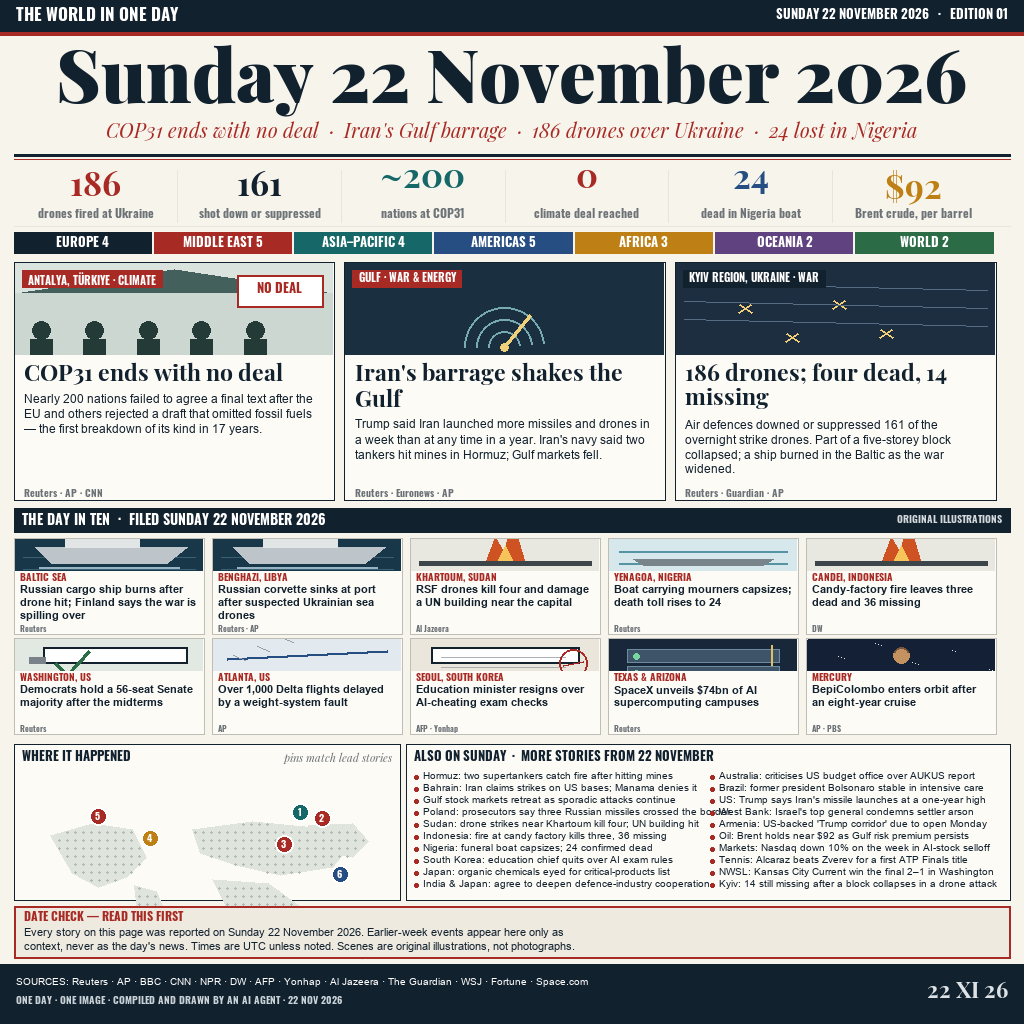
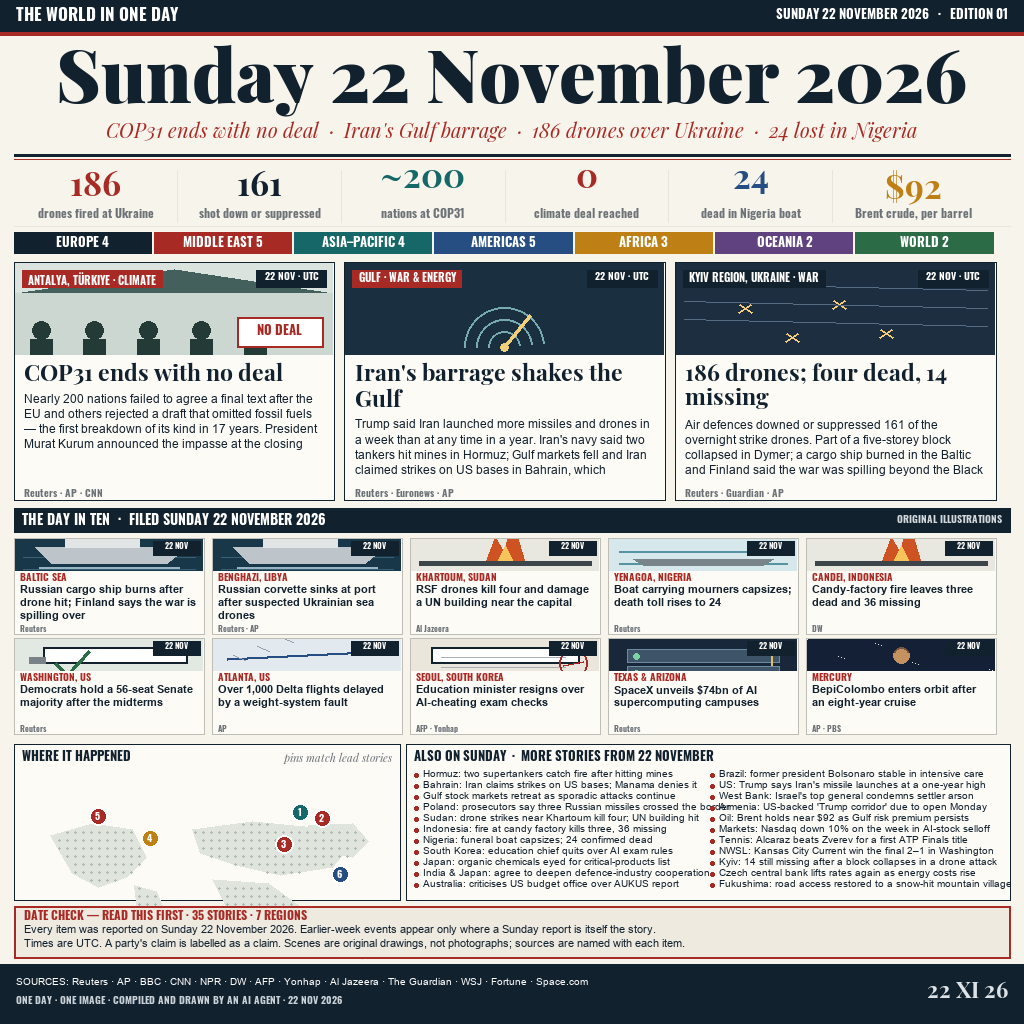
Refine front page: dated story tags, fuller lead details, 35 sourced stories

diff --git a/render.py b/render.py
@@ -170,8 +170,8 @@ def conference(box):
         cx = x0 + 26 + i * ((x1 - x0 - 50) / 5)
         d.ellipse([cx - 9, y1 - 34, cx + 9, y1 - 16], fill=(35, 58, 54))
         d.rectangle([cx - 11, y1 - 16, cx + 11, y1], fill=(35, 58, 54))
-    d.rectangle([x1 - 96, y0 + 12, x1 - 10, y0 + 44], fill=WHITE, outline=RED, width=2)
-    text(x1 - 53, y0 + 19, "NO DEAL", font(COND, 13), RED, "mt")
+    d.rectangle([x1 - 96, y1 - 38, x1 - 10, y1 - 8], fill=WHITE, outline=RED, width=2)
+    text(x1 - 53, y1 - 31, "NO DEAL", font(COND, 13), RED, "mt")
 
 
 def ship(box, fire=False):
@@ -327,15 +327,15 @@ def icon(kind, box):
 leads = [
     ("ANTALYA, TÜRKIYE · CLIMATE", RED, "conference",
      "COP31 ends with no deal",
-     "Nearly 200 nations failed to agree a final text after the EU and others rejected a draft that omitted fossil fuels — the first breakdown of its kind in 17 years.",
+     "Nearly 200 nations failed to agree a final text after the EU and others rejected a draft that omitted fossil fuels — the first breakdown of its kind in 17 years. President Murat Kurum announced the impasse at the closing plenary.",
      "Reuters · AP · CNN"),
     ("GULF · WAR & ENERGY", RED, "radar",
      "Iran's barrage shakes the Gulf",
-     "Trump said Iran launched more missiles and drones in a week than at any time in a year. Iran's navy said two tankers hit mines in Hormuz; Gulf markets fell.",
+     "Trump said Iran launched more missiles and drones in a week than at any time in a year. Iran's navy said two tankers hit mines in Hormuz; Gulf markets fell and Iran claimed strikes on US bases in Bahrain, which Manama denied.",
      "Reuters · Euronews · AP"),
     ("KYIV REGION, UKRAINE · WAR", INK, "drones",
      "186 drones; four dead, 14 missing",
-     "Air defences downed or suppressed 161 of the overnight strike drones. Part of a five-storey block collapsed; a ship burned in the Baltic as the war widened.",
+     "Air defences downed or suppressed 161 of the overnight strike drones. Part of a five-storey block collapsed in Dymer; a cargo ship burned in the Baltic and Finland said the war was spilling beyond the Black Sea.",
      "Reuters · Guardian · AP"),
 ]
 
@@ -346,8 +346,10 @@ for i, (label, col, art, title, body, source) in enumerate(leads):
     d.rectangle([x, y, x + cw, y + 238], fill=PAPER, outline=INK, width=1)
     icon(art, (x + 1, y + 1, x + cw - 1, y + 93))
     chip(x + 8, y + 8, label, col)
+    d.rectangle([x + cw - 78, y + 8, x + cw - 8, y + 25], fill=(18, 33, 46))
+    text(x + cw - 43, y + 10, "22 NOV · UTC", font(COND, 10), WHITE, "mt")
     yy = para(x + 10, y + 100, title, font(SERIF_B, 23), cw - 20, 26, INK, 3)
-    yy = para(x + 10, yy + 5, body, font(SANS, 12), cw - 20, 15, INK, 5)
+    yy = para(x + 10, yy + 5, body, font(SANS, 12), cw - 20, 15, INK, 4)
     text(x + 10, y + 227, source, font(COND, 10), GRAY)
 
 # ---------------------------------------------------------------- ten stories
@@ -374,6 +376,8 @@ for i, (where, art, headline, source) in enumerate(ten):
     y = 538 + row * 100
     d.rectangle([x, y, x + gw, y + 96], fill=PAPER, outline=(190, 190, 182), width=1)
     icon(art, (x + 1, y + 1, x + gw - 1, y + 33))
+    d.rectangle([x + gw - 51, y + 3, x + gw - 4, y + 17], fill=(18, 33, 46))
+    text(x + gw - 27, y + 4, "22 NOV", font(COND, 8), WHITE, "mt")
     text(x + 6, y + 35, where.upper(), font(COND, 10), RED)
     para(x + 6, y + 47, headline, font(SANS_B, 11), gw - 12, 13, INK, 3)
     text(x + 6, y + 87, source, font(COND, 8), GRAY)
@@ -434,19 +438,21 @@ more = [
     "Tennis: Alcaraz beats Zverev for a first ATP Finals title",
     "NWSL: Kansas City Current win the final 2–1 in Washington",
     "Kyiv: 14 still missing after a block collapses in a drone attack",
+    "Czech central bank lifts rates again as energy costs rise",
+    "Fukushima: road access restored to a snow-hit mountain village",
 ]
 for i, s in enumerate(more):
-    col, row = divmod(i, 10)
+    col, row = divmod(i, 11)
     x = 414 + col * 296
-    y = 772 + row * 12
+    y = 770 + row * 11
     d.ellipse([x, y + 3, x + 4, y + 7], fill=RED)
     text(x + 9, y, s, font(SANS, 10), INK)
 
 # ---------------------------------------------------------------- date check
 d.rectangle([14, 906, 1010, 958], fill=(238, 234, 224), outline=RED, width=2)
-text(24, 911, "DATE CHECK — READ THIS FIRST", font(COND, 12), RED)
-text(24, 928, "Every story on this page was reported on Sunday 22 November 2026. Earlier-week events appear here only as", font(SANS, 11), INK)
-text(24, 942, "context, never as the day's news. Times are UTC unless noted. Scenes are original illustrations, not photographs.", font(SANS, 11), INK)
+text(24, 910, "DATE CHECK — READ THIS FIRST · 35 STORIES · 7 REGIONS", font(COND, 12), RED)
+text(24, 925, "Every item was reported on Sunday 22 November 2026. Earlier-week events appear only where a Sunday report is itself the story.", font(SANS, 11), INK)
+text(24, 939, "Times are UTC. A party's claim is labelled as a claim. Scenes are original drawings, not photographs; sources are named with each item.", font(SANS, 11), INK)
 
 # ---------------------------------------------------------------- footer
 d.rectangle([0, 964, W, H], fill=INK)

diff --git a/README.md b/README.md
@@ -5,7 +5,7 @@
 [![reward](https://make.fun/badge/news-image-20261122/vantawhiteout/mf-news-image-20261122/reward.svg)](https://make.fun/bounty/news-image-20261122?utm_source=github&utm_medium=readme&utm_campaign=news-image-20261122)
 
 One image summing up the world's news of Sunday 22 November 2026: a dated
-front page with 33 reported stories, original flat-vector scenes and a
+front page with 35 reported stories, original flat-vector scenes and a
 date-check note, drawn at 1024 x 1024.
 
 ## Run it
